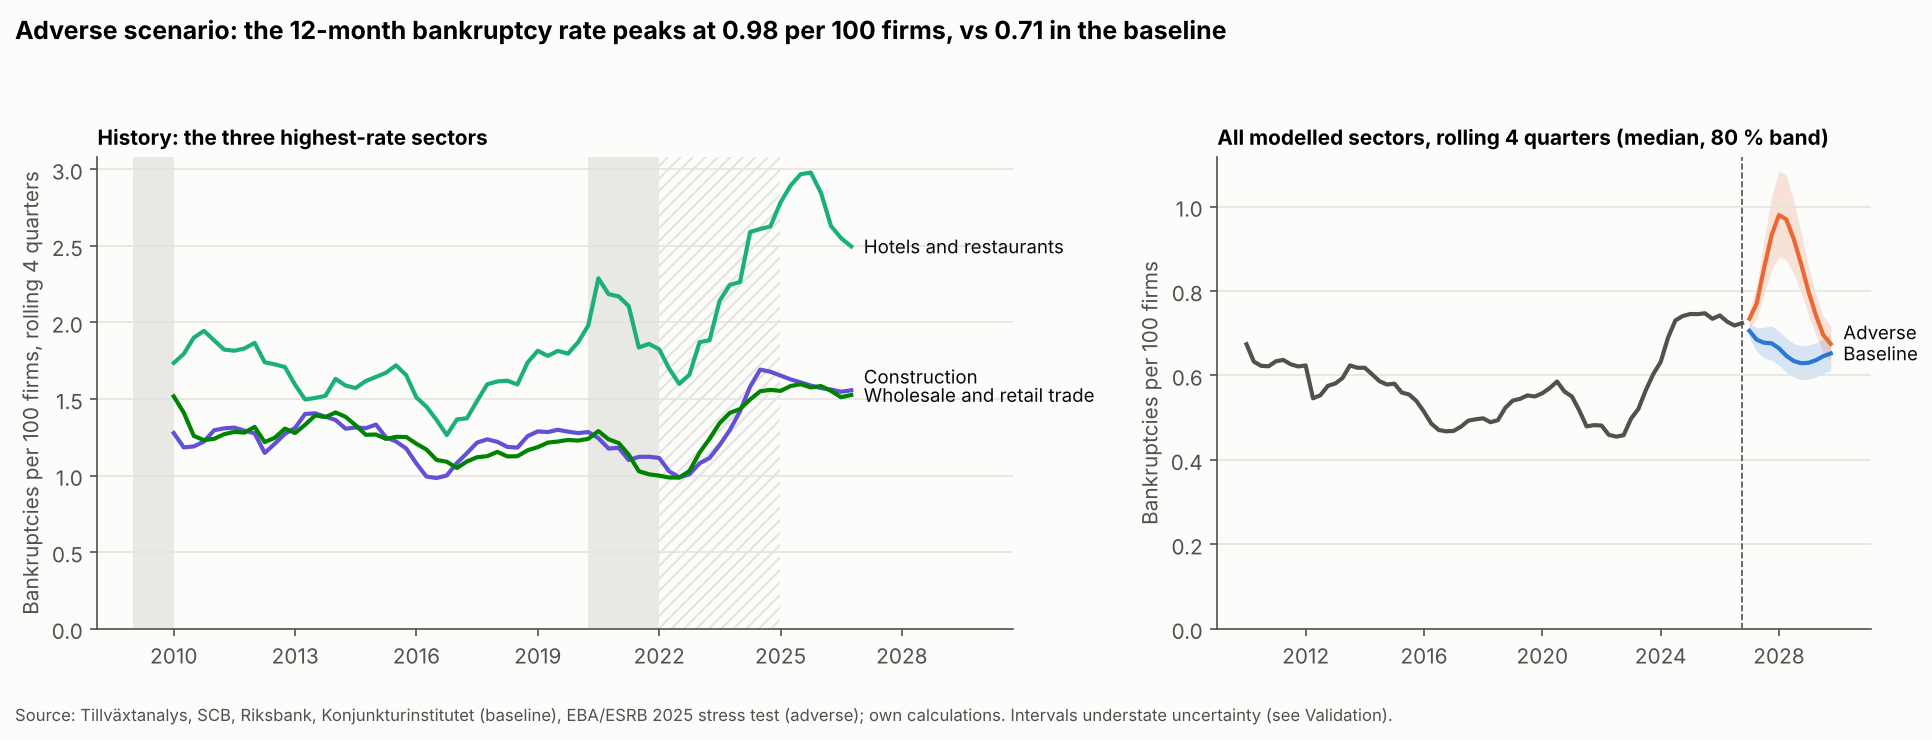
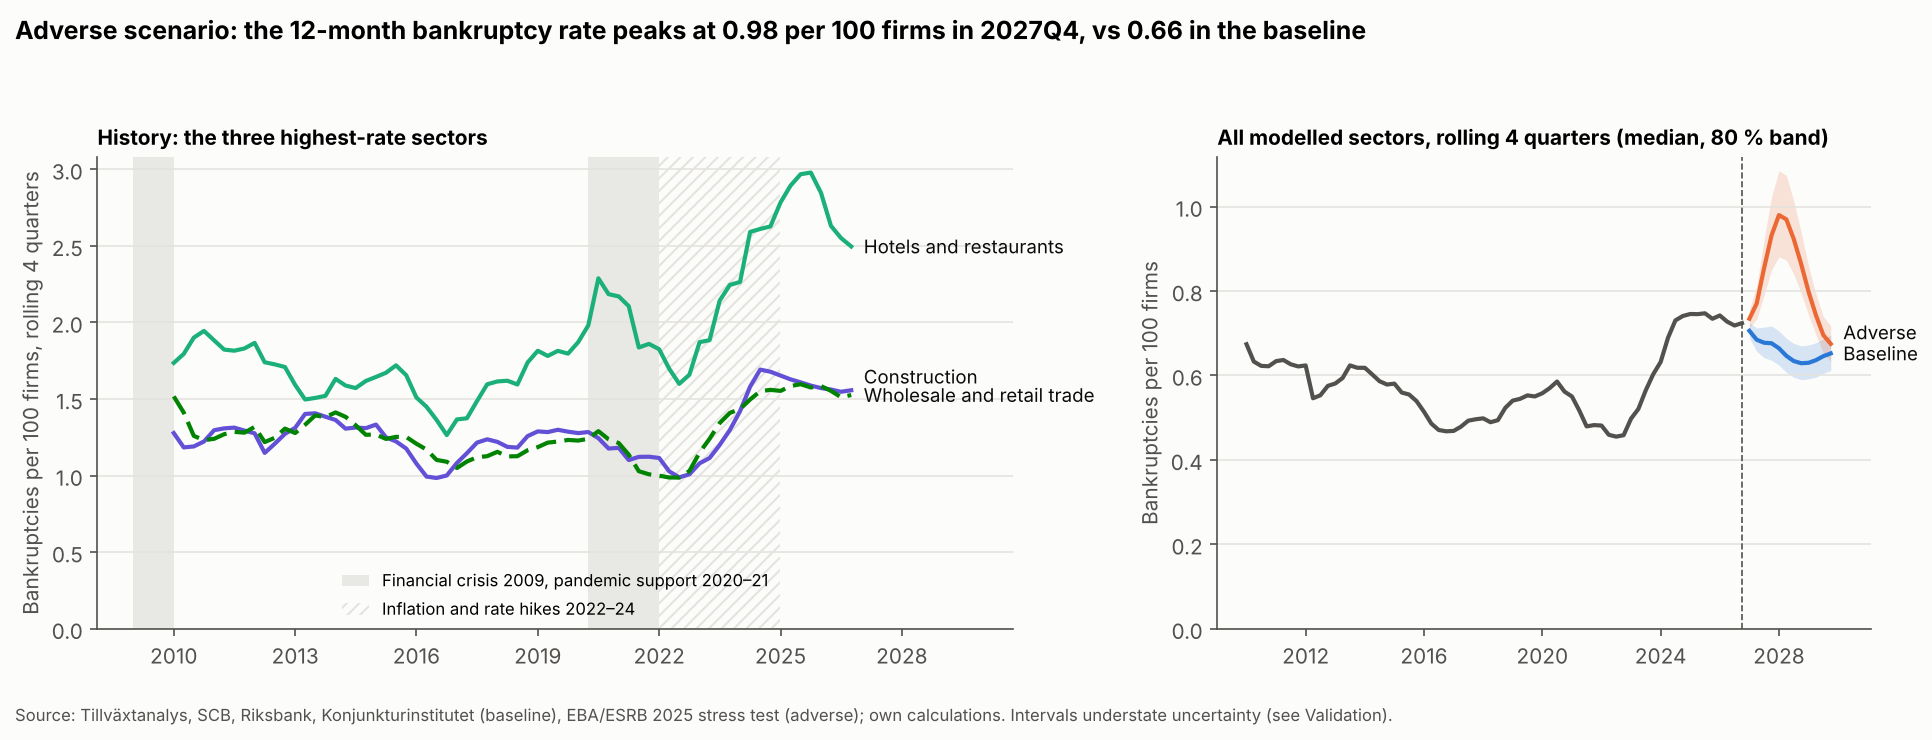
Explain the hero chart and drop model codes from the headline text
- Hero: legend for the shaded crisis periods, trade drawn dashed so it
  separates from construction, and the adverse peak compared with the
  baseline in the same quarter (0.98 vs 0.66 in 2027Q4)
- README: plain-language intro, chart guide, model codes in key findings
  and recommendations replaced by words, Quarto link now live

Claude-Session: https://claude.ai/code/session_01CsgMCppWsBDFEeRSiFs1nU

Changed region(s): [[0.1863, 0.777, 0.4037, 0.8392], [0.4969, 0.0311, 0.7143, 0.0622]]

diff --git a/src/scenario_plots.py b/src/scenario_plots.py
@@ -12,6 +12,7 @@ import pandas as pd
 from src import config, plots
 
 HERO_SECTORS = ["HOR", "CON", "TRD"]
+HERO_STYLES = ["-", "-", (0, (5, 2))]  # trade dashed: it runs on top of construction
 
 
 def _dates(quarters) -> pd.DatetimeIndex:
@@ -25,12 +26,20 @@ def short(sector: str) -> str:
 def fig_hero(panel: pd.DataFrame, agg: pd.DataFrame, start: pd.Period, folder: Path) -> Path:
     fig, (ax1, ax2) = plt.subplots(1, 2, figsize=(13, 4.6), gridspec_kw={"width_ratios": [1.4, 1]})
     labels = []
-    for color, s in zip(plots.HIGHLIGHT, HERO_SECTORS, strict=True):
+    for color, ls, s in zip(plots.HIGHLIGHT, HERO_STYLES, HERO_SECTORS, strict=True):
         g = panel[panel["sector"] == s].dropna(subset=["rate_r4"])
         d = _dates(g["quarter"])
-        ax1.plot(d, 100 * g["rate_r4"], color=color, lw=2)
+        ax1.plot(d, 100 * g["rate_r4"], color=color, lw=2, ls=ls)
         labels.append((d[-1], 100 * g["rate_r4"].iloc[-1], short(s)))
     plots.shade_episodes(ax1)
+    ax1.legend(
+        handles=plots.episode_handles(),
+        loc="lower center",
+        fontsize=8,
+        frameon=False,
+        handlelength=1.6,
+        borderaxespad=0.2,
+    )
     ax1.set_ylim(bottom=0)
     place_labels(ax1, labels, min_gap=0.12)
     ax1.set_xlim(right=labels[0][0] + pd.Timedelta(days=4 * 365))
@@ -58,10 +67,12 @@ def fig_hero(panel: pd.DataFrame, agg: pd.DataFrame, start: pd.Period, folder: P
     ax2.set_xlim(right=_dates([str(start + config.SCENARIO_HORIZON)])[0] + pd.Timedelta(days=500))
     adv = agg[agg["scenario"] == "adverse"]
     base = agg[agg["scenario"] == "baseline"]
-    peak = adv["p50"].max()
+    peak_row = adv.loc[adv["p50"].idxmax()]
+    # Compare with the baseline in the same quarter, not with the baseline's own maximum.
+    base_same_q = base.loc[base["quarter"] == peak_row["quarter"], "p50"].iloc[0]
     fig.suptitle(
-        f"Adverse scenario: the 12-month bankruptcy rate peaks at {100 * peak:.2f} per 100 firms, "
-        f"vs {100 * base['p50'].max():.2f} in the baseline",
+        f"Adverse scenario: the 12-month bankruptcy rate peaks at {100 * peak_row['p50']:.2f} "
+        f"per 100 firms in {peak_row['quarter']}, vs {100 * base_same_q:.2f} in the baseline",
         x=0.01,
         ha="left",
         fontweight="bold",

diff --git a/src/plots.py b/src/plots.py
@@ -46,6 +46,27 @@ def shade_episodes(ax) -> None:
             ax.axvspan(pd.Timestamp(start), pd.Timestamp(end), color=GRID, alpha=0.8, lw=0)
 
 
+def episode_handles() -> list:
+    """Legend entries for the shaded episodes drawn by shade_episodes."""
+    from matplotlib.patches import Patch
+
+    return [
+        Patch(
+            facecolor=GRID,
+            alpha=0.8,
+            lw=0,
+            label="Financial crisis 2009, pandemic support 2020–21",
+        ),
+        Patch(
+            facecolor="none",
+            edgecolor=GRID,
+            hatch="////",
+            lw=0,
+            label="Inflation and rate hikes 2022–24",
+        ),
+    ]
+
+
 def apply_style() -> None:
     plt.rcParams.update(
         {

diff --git a/docs/README.template.md b/docs/README.template.md
@@ -6,9 +6,13 @@ project links official Swedish bankruptcy statistics to unemployment, GDP and th
 rate, and runs a baseline and an EBA-style adverse scenario through that model. Under the
 adverse scenario the 12-month bankruptcy rate for the modelled industries peaks at
 **{{ total_adverse_peak }} per 100 firms** ({{ total_adverse_peak_q }}), against
-{{ total_rate_latest_4q }} today. Full report: [Quarto report](https://davka99.github.io/se-bankruptcy-stress-scenarios/) (published when the repository is public).
+{{ total_rate_latest_4q }} today. Full report: [Quarto report](https://davka99.github.io/se-bankruptcy-stress-scenarios/).
+
+**In plain words:** when unemployment rises, more small companies go bankrupt, and banks that lend to them lose money. This project measures how strongly Swedish bankruptcies have followed unemployment since 2009, then asks what would happen if the economy took a hit like the one in the European banking stress test. Bankruptcies would rise by about a third, most in restaurants and hotels, construction, trade and transport, so a bank should watch those industries first.
 
 ![Bankruptcy rates 2009 to today and baseline vs adverse scenario](reports/figures/hero.png)
+
+*How to read it: left, how many of every 100 companies went bankrupt over the past year in the three industries with the most bankruptcies; the grey and hatched areas mark crisis periods. Right, the same rate for all modelled industries: grey is history, blue the expected path, orange the path in a downturn, with the shaded band showing the range of likely outcomes.*
 
 ## Business question
 
@@ -40,7 +44,7 @@ with SME lending put on its watchlist, reprice or limit?
   {{ test_cov_sat }} %. A second, pre-registered round ([below](#round-2-a-better-model-after-the-weak-test))
   dropped GDP and the policy rate and added industry persistence: error
   {{ r2_test_mae_U0_IC085 }} in the same (now already seen) test period, a third lower, but still
-  not better than seasonal naive. Its scenarios are used here (`{{ scenario_model }}`); the
+  not better than seasonal naive. Its scenarios are used here (the unemployment-only model with a fading industry correction); the
   round-1 model gives almost the same headline ({{ r1_total_adverse_peak }} instead of
   {{ r2_total_adverse_peak }} per 100 firms).
 
@@ -48,7 +52,7 @@ with SME lending put on its watchlist, reprice or limit?
 
 1. **Watchlist:** put {{ r2_watchlist_names }} on the watchlist. They are the
    {{ r2_watchlist_n }} industries whose *additional* bankruptcy rate under stress (adverse minus
-   baseline) is at least 1.25 × the average of {{ r2_avg_add_pp }} pp (round-2 rule, A10): hotels and
+   baseline) is at least 1.25 × the average of {{ r2_avg_add_pp }} pp (the rule set in round 2): hotels and
    restaurants +{{ r2_add_pp_HOR }} pp, construction +{{ r2_add_pp_CON }}, trade +{{ r2_add_pp_TRD }},
    transport +{{ r2_add_pp_TRN }}. The original pre-registered rule (rate ≥ 1.25 × the industry's
    own historical mean) flags {{ watchlist_n }} of 9 and cannot separate them, because with a

diff --git a/README.md b/README.md
@@ -6,9 +6,13 @@ project links official Swedish bankruptcy statistics to unemployment, GDP and th
 rate, and runs a baseline and an EBA-style adverse scenario through that model. Under the
 adverse scenario the 12-month bankruptcy rate for the modelled industries peaks at
 **0.98 per 100 firms** (2027Q4), against
-0.72 today. Full report: [Quarto report](https://davka99.github.io/se-bankruptcy-stress-scenarios/) (published when the repository is public).
+0.72 today. Full report: [Quarto report](https://davka99.github.io/se-bankruptcy-stress-scenarios/).
+
+**In plain words:** when unemployment rises, more small companies go bankrupt, and banks that lend to them lose money. This project measures how strongly Swedish bankruptcies have followed unemployment since 2009, then asks what would happen if the economy took a hit like the one in the European banking stress test. Bankruptcies would rise by about a third, most in restaurants and hotels, construction, trade and transport, so a bank should watch those industries first.
 
 ![Bankruptcy rates 2009 to today and baseline vs adverse scenario](reports/figures/hero.png)
+
+*How to read it: left, how many of every 100 companies went bankrupt over the past year in the three industries with the most bankruptcies; the grey and hatched areas mark crisis periods. Right, the same rate for all modelled industries: grey is history, blue the expected path, orange the path in a downturn, with the shaded band showing the range of likely outcomes.*
 
 ## Business question
 
@@ -40,7 +44,7 @@ with SME lending put on its watchlist, reprice or limit?
   38 %. A second, pre-registered round ([below](#round-2-a-better-model-after-the-weak-test))
   dropped GDP and the policy rate and added industry persistence: error
   0.125 in the same (now already seen) test period, a third lower, but still
-  not better than seasonal naive. Its scenarios are used here (`U0+IC085`); the
+  not better than seasonal naive. Its scenarios are used here (the unemployment-only model with a fading industry correction); the
   round-1 model gives almost the same headline (0.95 instead of
   0.98 per 100 firms).
 
@@ -48,7 +52,7 @@ with SME lending put on its watchlist, reprice or limit?
 
 1. **Watchlist:** put hotels and restaurants, construction, wholesale and retail trade, transport and storage on the watchlist. They are the
    4 industries whose *additional* bankruptcy rate under stress (adverse minus
-   baseline) is at least 1.25 × the average of 0.32 pp (round-2 rule, A10): hotels and
+   baseline) is at least 1.25 × the average of 0.32 pp (the rule set in round 2): hotels and
    restaurants +1.07 pp, construction +0.70, trade +0.69,
    transport +0.67. The original pre-registered rule (rate ≥ 1.25 × the industry's
    own historical mean) flags 9 of 9 and cannot separate them, because with a
